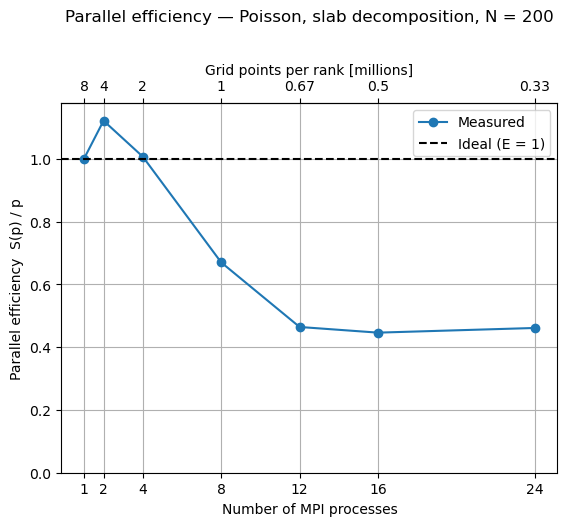
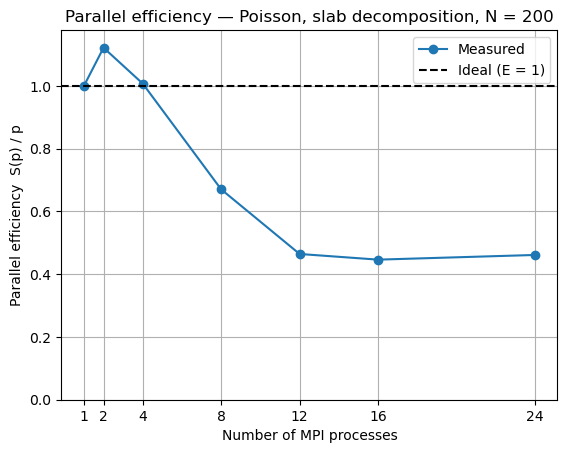
Remove grid points per rank axis from scaling plots

diff --git a/plotting/plot_scaling.py b/plotting/plot_scaling.py
@@ -33,19 +33,6 @@ speedup = p0 * t0 / t_mean
 efficiency = speedup / p_values
 
 title_suffix = f"Poisson, slab decomposition, N = {N}"
-plt.rcParams["axes.titlepad"] = 30     # room for the top axis
-
-
-def add_work_per_rank_axis():
-    """Top axis: how many grid points each rank computes (N^3 / p), in millions.
-
-    In strong scaling the total work is fixed, so each rank's share shrinks.
-    """
-    top = plt.gca().secondary_xaxis("top")
-    top.set_xticks(p_values)
-    top.set_xticklabels([f"{float(N)**3 / p / 1e6:.2g}" for p in p_values])
-    top.set_xlabel("Grid points per rank [millions]")
-
 
 # 1. Total time
 plt.figure()
@@ -54,7 +41,6 @@ plt.xlabel("Number of MPI processes")
 plt.ylabel("Time of the iteration loop [s]")
 plt.title(f"Time — {title_suffix}")
 plt.xticks(p_values)
-add_work_per_rank_axis()
 plt.grid(True)
 plt.savefig(f"plots/{name}_timing.png", bbox_inches="tight")
 plt.close()
@@ -67,7 +53,6 @@ plt.xlabel("Number of MPI processes")
 plt.ylabel("Speedup")
 plt.title(f"Speedup — {title_suffix}")
 plt.xticks(p_values)
-add_work_per_rank_axis()
 plt.legend()
 plt.grid(True)
 plt.savefig(f"plots/{name}_speedup.png", bbox_inches="tight")
@@ -81,7 +66,6 @@ plt.xlabel("Number of MPI processes")
 plt.ylabel("Parallel efficiency  S(p) / p")
 plt.title(f"Parallel efficiency — {title_suffix}")
 plt.xticks(p_values)
-add_work_per_rank_axis()
 plt.ylim(0, max(1.1, 1.05 * efficiency.max()))   # superlinear (E > 1) stays visible
 plt.legend()
 plt.grid(True)
